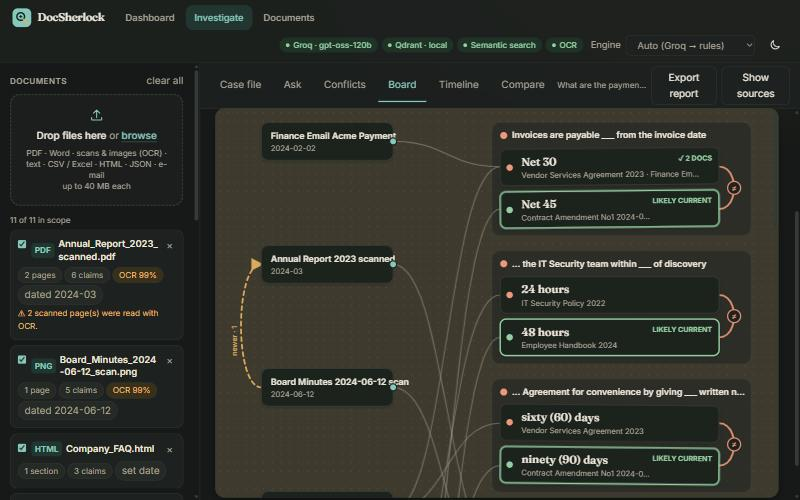
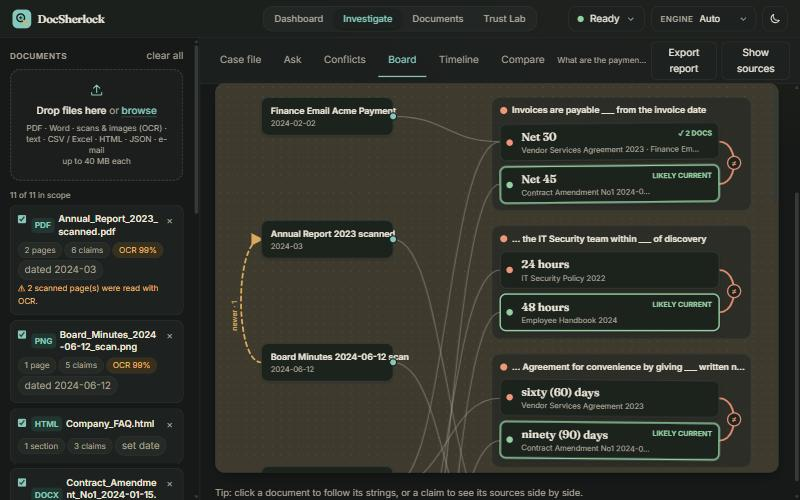
readme done

diff --git a/frontend/src/components/TopBar.tsx b/frontend/src/components/TopBar.tsx
@@ -3,7 +3,7 @@ import { NavLink } from 'react-router-dom'
 import { useWorkspace } from '../context/workspace'
 import type { Mode } from '../lib/types'
 import { Logo } from './Logo'
-import { StatusPills } from './StatusPills'
+import { StatusMenu } from './StatusMenu'
 
 function useTheme() {
   const [dark, setDark] = useState(() => document.documentElement.classList.contains('dark'))
@@ -29,9 +29,13 @@ function useTheme() {
   return [dark, toggle] as const
 }
 
+/* Every control in the header shares one height (h-10), one radius (rounded-xl), one border and one hover style, so the row reads as a set. */
+const CONTROL = 'rounded-xl border border-line bg-surface transition duration-200 hover:border-brand/50'
+
 function ThemeToggle({ dark, onToggle }: { dark: boolean; onToggle: () => void }) {
   return (
-    <button className="btn btn-ghost !min-h-10 !w-10 !px-0" onClick={onToggle} aria-label={dark ? 'Switch to light mode' : 'Switch to dark mode'} aria-pressed={dark} title={dark ? 'Light mode' : 'Dark mode'}>
+    <button className={`${CONTROL} inline-flex h-10 w-10 shrink-0 items-center justify-center text-ink hover:bg-surface-2 active:scale-[.98]`} onClick={onToggle}
+      aria-label={dark ? 'Switch to light mode' : 'Switch to dark mode'} aria-pressed={dark} title={dark ? 'Light mode' : 'Dark mode'}>
       <svg viewBox="0 0 24 24" width="20" height="20" fill="none" stroke="currentColor" strokeWidth="1.9" strokeLinecap="round" strokeLinejoin="round" aria-hidden="true">
         <g className={`origin-center transition duration-500 ${dark ? 'scale-0 -rotate-90 opacity-0' : 'scale-100 rotate-0 opacity-100'}`} style={{ transformBox: 'fill-box' }}>
           <circle cx="12" cy="12" r="4" /><path d="M12 2v2M12 20v2M4.9 4.9l1.4 1.4M17.7 17.7l1.4 1.4M2 12h2M20 12h2M4.9 19.1l1.4-1.4M17.7 6.3l1.4-1.4" />
@@ -42,32 +46,53 @@ function ThemeToggle({ dark, onToggle }: { dark: boolean; onToggle: () => void }
   )
 }
 
-const link = ({ isActive }: { isActive: boolean }) =>
-  `relative whitespace-nowrap rounded-xl px-3.5 py-2 text-sm font-medium transition duration-200 ${isActive ? 'bg-brand-soft text-brand' : 'text-muted hover:bg-surface-2 hover:text-ink'}`
-
-export function TopBar() {
+function EngineSelect({ className = '' }: { className?: string }) {
   const { mode, setMode, health } = useWorkspace()
+  return (
+    <label className={`${CONTROL} relative h-10 items-center text-sm focus-within:border-brand focus-within:ring-2 focus-within:ring-brand/25 ${className}`}>
+      <span className="pl-3.5 text-xs font-semibold uppercase tracking-wider text-muted">Engine</span>
+      <select value={mode} onChange={(e) => setMode(e.target.value as Mode)} aria-label="Answer engine"
+        title={health?.llm.available ? 'Auto: Groq writes the answer, the rule-based engine takes over if it fails. Rules only: never call the LLM. Groq only: no fallback.' : 'No LLM key is configured, so the rule-based engine answers.'}
+        className="h-full min-w-0 flex-1 cursor-pointer appearance-none bg-transparent pl-2.5 pr-9 text-sm font-medium text-ink focus:outline-none">
+        <option value="auto">Auto</option>
+        <option value="rules">Rules only</option>
+        <option value="llm">Groq only</option>
+      </select>
+      <svg viewBox="0 0 20 20" className="pointer-events-none absolute right-3 h-4 w-4 text-muted" fill="none" stroke="currentColor" strokeWidth="1.8" strokeLinecap="round" strokeLinejoin="round" aria-hidden="true"><path d="M5 8l5 5 5-5" /></svg>
+    </label>
+  )
+}
+
+const link = ({ isActive }: { isActive: boolean }) =>
+  `inline-flex h-8 flex-1 items-center justify-center whitespace-nowrap rounded-[.65rem] px-1 text-[0.84rem] font-medium transition duration-200 sm:px-2 sm:text-sm lg:flex-none lg:px-3.5 ${isActive ? 'bg-surface text-brand shadow-[var(--shadow-card)]' : 'text-muted hover:text-ink'}`
+
+/**
+ * Header layout: logo | navigation | controls.
+ *  - from 1024 px: one row of three equal-weight zones, so the navigation sits exactly in the middle of the page
+ *  - below that (tablets and phones): logo and controls on the first row, the navigation full width underneath
+ * The answer-engine choice shows next to the status control from 1280 px and moves inside the status panel below that.
+ */
+export function TopBar() {
   const [dark, toggle] = useTheme()
   return (
-    <header className="sticky top-0 z-30 flex flex-wrap items-center gap-x-4 gap-y-1 border-b border-line bg-surface/85 px-4 py-2 backdrop-blur-md sm:px-5">
-      <NavLink to="/" className="mr-1 rounded-lg" aria-label="DocSherlock home"><Logo /></NavLink>
-      <nav className="scroll-thin order-last -mx-1 flex w-full items-center gap-1 overflow-x-auto px-1 pb-1 sm:order-none sm:mx-0 sm:w-auto sm:overflow-visible sm:px-0 sm:pb-0" aria-label="Main">
-        <NavLink to="/" end className={link}>Dashboard</NavLink>
-        <NavLink to="/investigate" className={link}>Investigate</NavLink>
-        <NavLink to="/documents" className={link}>Documents</NavLink>
-        <NavLink to="/trust" className={link}>Trust Lab</NavLink>
-      </nav>
-      <div className="ml-auto flex items-center gap-2 sm:gap-3">
-        <div className="hidden xl:block"><StatusPills /></div>
-        <label className="hidden items-center gap-2 text-sm text-muted sm:flex">
-          <span className="sr-only sm:not-sr-only">Engine</span>
-          <select value={mode} onChange={(e) => setMode(e.target.value as Mode)} className="field !w-auto !rounded-lg !py-1.5 !pr-8 text-sm" aria-label="Answer engine">
-            <option value="auto">{health?.llm.available ? 'Auto (Groq → rules)' : 'Auto'}</option>
-            <option value="rules">Rules only</option>
-            <option value="llm">Groq only</option>
-          </select>
-        </label>
-        <ThemeToggle dark={dark} onToggle={toggle} />
+    <header className="sticky top-0 z-30 border-b border-line bg-surface/85 backdrop-blur-md">
+      <div className="grid grid-cols-[auto_auto] items-center justify-between gap-x-4 gap-y-2.5 px-4 py-2.5 sm:px-5 lg:grid-cols-[1fr_auto_1fr]">
+        <NavLink to="/" className="justify-self-start rounded-lg" aria-label="DocSherlock home"><Logo /></NavLink>
+
+        <nav className="order-last col-span-2 min-w-0 lg:order-none lg:col-span-1 lg:justify-self-center" aria-label="Main">
+          <div className="scroll-thin flex h-10 max-w-full items-center gap-0.5 overflow-x-auto sm:gap-1 overflow-y-hidden rounded-2xl border border-line bg-surface-2/70 p-1">
+            <NavLink to="/" end className={link}>Dashboard</NavLink>
+            <NavLink to="/investigate" className={link}>Investigate</NavLink>
+            <NavLink to="/documents" className={link}>Documents</NavLink>
+            <NavLink to="/trust" className={link}>Trust Lab</NavLink>
+          </div>
+        </nav>
+
+        <div className="flex items-center gap-2.5 justify-self-end">
+          <StatusMenu extra={<div className="xl:hidden"><div className="eyebrow mb-2">Answer engine</div><EngineSelect className="flex w-full" /></div>} />
+          <EngineSelect className="hidden w-[10.5rem] xl:flex" />
+          <ThemeToggle dark={dark} onToggle={toggle} />
+        </div>
       </div>
     </header>
   )

diff --git a/frontend/src/components/topbar.test.tsx b/frontend/src/components/topbar.test.tsx
@@ -1,0 +1,108 @@
+import { render, screen, within } from '@testing-library/react'
+import userEvent from '@testing-library/user-event'
+import { MemoryRouter } from 'react-router-dom'
+import { beforeEach, describe, expect, it, vi } from 'vitest'
+import { TopBar } from './TopBar'
+
+type H = Record<string, unknown> | null
+const ws = { mode: 'auto', setMode: vi.fn(), health: null as H }
+vi.mock('../context/workspace', () => ({ useWorkspace: () => ws }))
+
+const healthy = (over: Record<string, unknown> = {}) => ({
+  status: 'healthy', version: '2.0.0', database: { ok: true, engine: 'postgresql' }, llm: { available: true, model: 'openai/gpt-oss-120b' },
+  vector_store: { ok: true, mode: 'server', collection: 'c' }, ocr: { available: true, reason: '' },
+  models: { dense: { name: 'jina', enabled: true, ready: true, loading: false, error: null }, sparse: {}, reranker: {}, loading: false }, ...over,
+})
+const renderBar = () => render(<MemoryRouter><TopBar /></MemoryRouter>)
+beforeEach(() => { ws.setMode.mockClear(); ws.health = healthy() })
+
+describe('header layout', () => {
+  it('has the four destinations in one navigation, in order', () => {
+    renderBar()
+    const nav = screen.getByRole('navigation', { name: 'Main' })
+    expect(within(nav).getAllByRole('link').map((a) => a.textContent)).toEqual(['Dashboard', 'Investigate', 'Documents', 'Trust Lab'])
+  })
+
+  it('gives every control one height and one shape, so the row looks uniform', () => {
+    const { container } = renderBar()
+    const header = container.querySelector('header')!
+    const controls = [
+      header.querySelector('nav > div'),                                   // the navigation track
+      screen.getByRole('button', { name: /system status/i }),
+      header.querySelector('label'),                                       // the engine selector
+      screen.getByRole('button', { name: /switch to (dark|light) mode/i }),
+    ] as HTMLElement[]
+    for (const c of controls) { expect(c.className).toMatch(/\bh-10\b/); expect(c.className).toMatch(/rounded-(xl|2xl)/) }
+    for (const c of controls.slice(1)) expect(c.className).toContain('border-line')
+  })
+
+  it('lays out as logo | navigation | controls in a three-zone grid from 1024 px and stacks below', () => {
+    const { container } = renderBar()
+    const grid = container.querySelector('header > div')!
+    expect(grid.className).toContain('lg:grid-cols-[1fr_auto_1fr]')
+    const nav = container.querySelector('nav')!
+    expect(nav.className).toContain('order-last')                           // underneath on phones and tablets
+    expect(nav.className).toContain('min-w-0')                              // so it scrolls inside its track instead of widening the page
+    expect(nav.className).toContain('lg:justify-self-center')               // centred on the page from 1024 px
+  })
+
+  it('marks the page you are on', () => {
+    renderBar()
+    expect(screen.getByRole('link', { name: 'Dashboard' })).toHaveAttribute('aria-current', 'page')
+    expect(screen.getByRole('link', { name: 'Trust Lab' })).not.toHaveAttribute('aria-current')
+  })
+})
+
+describe('status control', () => {
+  it('summarises the system in one word, with a dot', () => {
+    renderBar()
+    expect(screen.getByRole('button', { name: /system status/i })).toHaveTextContent('Ready')
+  })
+
+  it('says Limited when running without an LLM key, Degraded when something is down, and Connecting before the first answer', () => {
+    ws.health = healthy({ llm: { available: false, model: null } })
+    const a = renderBar(); expect(screen.getByRole('button', { name: /system status/i })).toHaveTextContent('Limited'); a.unmount()
+    ws.health = healthy({ database: { ok: false, engine: 'postgresql' } })
+    const b = renderBar(); expect(screen.getByRole('button', { name: /system status/i })).toHaveTextContent('Degraded'); b.unmount()
+    ws.health = null
+    renderBar(); expect(screen.getByRole('button', { name: /system status/i })).toHaveTextContent('Connecting')
+  })
+
+  it('opens a panel listing each part of the system, and closes it again (button, Escape, click outside)', async () => {
+    renderBar()
+    const btn = screen.getByRole('button', { name: /system status/i })
+    expect(btn).toHaveAttribute('aria-expanded', 'false')
+    await userEvent.click(btn)
+    const panel = screen.getByRole('group', { name: 'System status' })
+    expect(btn).toHaveAttribute('aria-expanded', 'true')
+    for (const [label, value] of [['Answer engine', 'Groq · gpt-oss-120b'], ['Database', 'postgresql'], ['Vector store', 'Qdrant · server'], ['Search', 'Semantic search'], ['OCR', 'Available']]) {
+      expect(panel).toHaveTextContent(label); expect(panel).toHaveTextContent(value)
+    }
+    await userEvent.click(btn)
+    expect(screen.queryByRole('group', { name: 'System status' })).toBeNull()
+    await userEvent.click(btn); await userEvent.keyboard('{Escape}')
+    expect(screen.queryByRole('group', { name: 'System status' })).toBeNull()
+    await userEvent.click(btn); await userEvent.click(document.body)
+    expect(screen.queryByRole('group', { name: 'System status' })).toBeNull()
+  })
+
+  it('explains keyword-only mode honestly', async () => {
+    ws.health = healthy({ vector_store: { ok: true, mode: 'disabled', collection: 'c' }, models: { dense: { name: 'x', enabled: false, ready: false, loading: false, error: null }, sparse: {}, reranker: {}, loading: false } })
+    renderBar()
+    await userEvent.click(screen.getByRole('button', { name: /system status/i }))
+    const panel = screen.getByRole('group', { name: 'System status' })
+    expect(panel).toHaveTextContent('Not used'); expect(panel).toHaveTextContent('Keyword search')
+  })
+})
+
+describe('engine selector', () => {
+  it('changes the answer engine and is also reachable inside the status panel on small screens', async () => {
+    renderBar()
+    const selects = screen.getAllByRole('combobox', { name: 'Answer engine' })
+    expect(selects).toHaveLength(1)                                         // the inline one; the panel copy only exists while the panel is open
+    await userEvent.selectOptions(selects[0], 'rules')
+    expect(ws.setMode).toHaveBeenCalledWith('rules')
+    await userEvent.click(screen.getByRole('button', { name: /system status/i }))
+    expect(screen.getAllByRole('combobox', { name: 'Answer engine' })).toHaveLength(2)
+  })
+})

diff --git a/frontend/src/components/StatusMenu.tsx b/frontend/src/components/StatusMenu.tsx
@@ -1,0 +1,70 @@
+import { useEffect, useId, useRef, useState, type ReactNode } from 'react'
+import { useWorkspace } from '../context/workspace'
+
+type Tone = 'ok' | 'warn' | 'bad' | 'none'
+
+const DOT: Record<Tone, string> = { ok: 'bg-ok', warn: 'bg-warn', bad: 'bg-bad', none: 'bg-none' }
+
+function Row({ label, value, tone }: { label: string; value: ReactNode; tone: Tone }) {
+  return (
+    <div className="flex items-center justify-between gap-4 py-2">
+      <dt className="text-sm text-muted">{label}</dt>
+      <dd className="flex min-w-0 items-center gap-2 text-sm font-medium text-ink"><i className={`h-2 w-2 shrink-0 rounded-full ${DOT[tone]}`} aria-hidden="true" /><span className="truncate">{value}</span></dd>
+    </div>
+  )
+}
+
+/** One compact control for the whole system state (answer engine, database, vector store, search, OCR); the details open in a small panel. */
+export function StatusMenu({ extra }: { extra?: ReactNode }) {
+  const { health: h } = useWorkspace()
+  const [open, setOpen] = useState(false)
+  const box = useRef<HTMLDivElement>(null)
+  const id = useId()
+
+  useEffect(() => {
+    if (!open) return
+    const down = (e: MouseEvent) => { if (box.current && !box.current.contains(e.target as Node)) setOpen(false) }
+    const key = (e: KeyboardEvent) => { if (e.key === 'Escape') setOpen(false) }
+    document.addEventListener('mousedown', down)
+    document.addEventListener('keydown', key)
+    return () => { document.removeEventListener('mousedown', down); document.removeEventListener('keydown', key) }
+  }, [open])
+
+  let tone: Tone = 'none'
+  let label = 'Connecting…'
+  let rows: { label: string; value: ReactNode; tone: Tone }[] = []
+  if (h) {
+    const dense = h.models.dense
+    const search = dense.ready ? { v: 'Semantic search', t: 'ok' as Tone } : dense.loading ? { v: 'Loading models…', t: 'warn' as Tone } : dense.enabled ? { v: 'Models pending', t: 'warn' as Tone } : { v: 'Keyword search', t: 'none' as Tone }
+    rows = [
+      { label: 'Answer engine', value: h.llm.available ? `Groq · ${h.llm.model?.split('/').pop()}` : 'Rule-based (no LLM key)', tone: h.llm.available ? 'ok' : 'warn' },
+      { label: 'Database', value: h.database.engine, tone: h.database.ok ? 'ok' : 'bad' },
+      { label: 'Vector store', value: h.vector_store.mode === 'disabled' ? 'Not used' : `Qdrant · ${h.vector_store.mode}`, tone: h.vector_store.mode === 'disabled' ? 'none' : h.vector_store.ok ? 'ok' : 'bad' },
+      { label: 'Search', value: search.v, tone: search.t },
+      { label: 'OCR', value: h.ocr.available ? 'Available' : 'Off', tone: h.ocr.available ? 'ok' : 'none' },
+    ]
+    const bad = h.status !== 'healthy' || rows.some((r) => r.tone === 'bad')
+    const warn = rows.some((r) => r.tone === 'warn')
+    tone = bad ? 'bad' : warn ? 'warn' : 'ok'
+    label = bad ? 'Degraded' : warn ? 'Limited' : 'Ready'
+  }
+
+  return (
+    <div ref={box} className="relative">
+      <button type="button" aria-expanded={open} aria-controls={id} aria-haspopup="true" onClick={() => setOpen((o) => !o)} title="System status"
+        className="inline-flex h-10 items-center gap-2.5 rounded-xl border border-line bg-surface px-3.5 text-sm font-medium text-ink transition duration-200 hover:border-brand/50 hover:bg-surface-2 active:scale-[.98]">
+        <i className={`h-2.5 w-2.5 rounded-full ${DOT[tone]} ${h ? '' : 'animate-pulse'}`} aria-hidden="true" />
+        <span>{label}</span>
+        <span className="sr-only">- system status</span>
+        <svg viewBox="0 0 20 20" className={`h-4 w-4 text-muted transition duration-200 ${open ? 'rotate-180' : ''}`} fill="none" stroke="currentColor" strokeWidth="1.8" strokeLinecap="round" strokeLinejoin="round" aria-hidden="true"><path d="M5 8l5 5 5-5" /></svg>
+      </button>
+      {open && (
+        <div id={id} role="group" aria-label="System status" className="pop absolute right-0 top-full z-40 mt-2 w-80 max-w-[calc(100vw-2rem)] rounded-2xl border border-line bg-surface p-4 shadow-[var(--shadow-lift)]">
+          <div className="eyebrow mb-1">System status</div>
+          {h ? <dl className="divide-y divide-line">{rows.map((r) => <Row key={r.label} {...r} />)}</dl> : <p className="py-2 text-sm text-muted">Connecting to the API…</p>}
+          {extra && <div className="mt-2 border-t border-line pt-3">{extra}</div>}
+        </div>
+      )}
+    </div>
+  )
+}

diff --git a/frontend/src/components/logo.test.tsx b/frontend/src/components/logo.test.tsx
@@ -8,7 +8,7 @@ import { SiteFooter } from './SiteFooter'
 import { TopBar } from './TopBar'
 
 const health = {
-  status: 'healthy', version: '2.0.0', llm: { available: true, model: 'openai/gpt-oss-120b' }, vector_store: { ok: true, mode: 'server', collection: 'c' }, ocr: { available: true, reason: '' },
+  status: 'healthy', version: '2.0.0', database: { ok: true, engine: 'sqlite' }, llm: { available: true, model: 'openai/gpt-oss-120b' }, vector_store: { ok: true, mode: 'server', collection: 'c' }, ocr: { available: true, reason: '' },
   models: { dense: { name: 'm', enabled: true, ready: true, loading: false, error: null }, sparse: {}, reranker: {}, loading: false },
 }
 vi.mock('../context/workspace', () => ({ useWorkspace: () => ({ mode: 'auto', setMode: vi.fn(), health }) }))
@@ -48,6 +48,16 @@ describe('one logo, everywhere', () => {
     expect(style).toContain(`.tile { fill: ${dark.brand}; }`)
     expect(style).toContain(`.ink { stroke: ${dark['brand-ink']}; }`)
     expect(style).toContain(`.lamp { stroke: ${dark.lamp}; }`)
+  })
+
+  it('the README lockup (logo + wordmark in one image, so the heading is aligned in any renderer) reuses the same mark and colours', () => {
+    const lockup = new DOMParser().parseFromString(read('public/logo-lockup.svg'), 'image/svg+xml')
+    expect(shape(lockup.querySelector('g')!)).toEqual(shape(svg.documentElement))
+    expect(lockup.querySelector('rect')?.getAttribute('fill')?.toLowerCase()).toBe(light.brand)
+    expect(lockup.querySelector('text')?.textContent).toBe('DocSherlock')
+    const style = lockup.querySelector('style')!.textContent!.toLowerCase()
+    expect(style).toContain(`.tile { fill: ${dark.brand}; }`)
+    expect(style).toContain('prefers-color-scheme: dark')
   })
 
   it('the React mark takes its colours from the same tokens', () => {

diff --git a/README.md b/README.md
@@ -1,6 +1,6 @@
-<p align="center"><img src="./frontend/public/favicon.svg" alt="DocSherlock logo" width="84" /></p>
-
-# DocSherlock
+<h1 align="left">
+  <img src="./frontend/public/logo-lockup.svg" alt="DocSherlock" height="56" />
+</h1>
 
 > Ask questions across your PDFs, scans, Word files and e-mails and get answers with the exact supporting passage - and a straight "the documents disagree" or "not found" when that's the truth. Built for analysts, reviewers and anyone who has to defend what a pile of documents says.
 
@@ -22,7 +22,7 @@ Every required item, and where to find it:
 | **Source-code repository with a clear README** | [GitHub](https://github.com/sahinurrahman-debug/DocSherlock) · this file | Yes |
 | **Architecture diagram and major technical decisions** | [Architecture and major technical decisions](#architecture-and-major-technical-decisions) · [docs/ARCHITECTURE.md](./docs/ARCHITECTURE.md) | Diagram inline + decision table |
 | **Demonstration of the core workflow required by the PS** | [Core workflow demonstration](#core-workflow-demonstration) · [Problem-statement coverage](#problem-statement-coverage-alg-ai-02) | 3-minute walkthrough with expected results |
-| **Testing evidence and handling of important edge cases** | [Testing evidence and edge cases](#testing-evidence-and-edge-cases) · [Evaluation](#evaluation) | 213 backend + 76 frontend tests, 3 evaluation corpora, an in-app stress test |
+| **Testing evidence and handling of important edge cases** | [Testing evidence and edge cases](#testing-evidence-and-edge-cases) · [Evaluation](#evaluation) | 213 backend + 86 frontend tests, 3 evaluation corpora, an in-app stress test |
 | **Known limitations and future improvements** | [Known limitations](#known-limitations) · [Future improvements](#future-improvements) | Yes |
 | **Disclosure of external APIs, datasets and AI-assisted components** | [Disclosure](#disclosure-external-apis-datasets-and-ai-assisted-components) | Yes |
 | **Conditions of use, privacy notice, license** | Dashboard footer (also `/#terms`, `/#privacy`, `/#license`) · [LICENSE](./LICENSE) · [License](#license) | MIT; plain-language notices that match what the app does |
@@ -38,15 +38,19 @@ Every required item, and where to find it:
 
 Both are real screenshots of the running app, answering *"What are the payment terms?"* over the bundled sample set: the contract says Net 30, the amendment says Net 45, and DocSherlock shows both with their sources instead of picking one.
 
-| Case board | Trust Lab |
+| Dashboard (light) | Case board (dark) |
 |---|---|
-| ![case board](./screenshots/board.jpg) | ![trust lab](./screenshots/trustlab.jpg) |
+| ![dashboard](./screenshots/dashboard.jpg) | ![case board](./screenshots/board.jpg) |
 
-*The board pins documents on the left and the claims they disagree about on the right - red string joins conflicting claims, amber shows which document amends which. The Trust Lab attacks the running system and reports what actually happened.*
+*The dashboard: greeting, drop box with live progress, workspace stats. The board pins documents on the left and the claims they disagree about on the right - red string joins conflicting claims, amber shows which document amends which.*
 
-![dashboard footer with the privacy notice open](./screenshots/footer.jpg)
+| Trust Lab (dark) | Legal footer (dark) |
+|---|---|
+| ![trust lab](./screenshots/trustlab.jpg) | ![dashboard footer with the privacy notice open](./screenshots/footer.jpg) |
 
-*The dashboard footer: copyright and MIT License, with the conditions of use, privacy notice and license text one click away (shown: the privacy notice).*
+*The Trust Lab attacks the running system and reports what actually happened (12 of 12 here). The dashboard footer carries the copyright and MIT License, with the conditions of use, privacy notice and license text one click away (shown: the privacy notice).*
+
+All screenshots are real captures of the running app, taken after the header redesign (logo, centred navigation, one status control, engine selector, theme toggle).
 
 ---
 
@@ -175,7 +179,7 @@ The problem statement does not require a particular technology, so these are cho
 | FastEmbed (bge-small, BM25, MiniLM cross-encoder) / Jina embeddings API | Local or hosted embeddings, reranking | sentence-transformers, any OpenAI-style `/embeddings` endpoint (`EMBEDDING_API_URL`) |
 | RapidOCR, PyMuPDF, python-docx, openpyxl | Reading scans and documents | Tesseract, Unstructured |
 | Groq (`openai/gpt-oss-120b`, fallback `llama-3.3-70b-versatile`) | Answer writing with strict JSON-schema output | any OpenAI-compatible endpoint (`LLM_PROVIDER=openai_compatible`) |
-| pytest, Vitest, Testing Library | 213 backend and 76 frontend tests | - |
+| pytest, Vitest, Testing Library | 213 backend and 86 frontend tests | - |
 | Docker, Render | Packaging and deployment | any container host |
 
 ---
@@ -236,7 +240,7 @@ All optional; the table lists the ones you are most likely to set. A full annota
 
 ```bash
 cd backend  && pip install -r requirements-dev.txt && pytest -q   # 213 passed, 1 skipped (opt-in live-Postgres test)
-cd frontend && npm test && npm run typecheck                      # 76 passed, type-check clean
+cd frontend && npm test && npm run typecheck                      # 86 passed, type-check clean
 python eval/run_eval.py [--holdout|--holdout2] [--quick] [--llm]  # accuracy report -> eval/RESULTS*.md
 ```
 
@@ -254,7 +258,7 @@ No network and no API key are needed for the test suites. The Trust Lab page rep
 | Insight features (`test_casefile`, `test_timeline`, `test_board`, `test_redteam`, `test_evidencepack`, `test_trustlab`) | 49 | case file, time travel, board graph, red-team attacks, PDF pack, stress-test cases |
 | Retrieval and stores (`test_hybrid`, `test_remote_stack`, `test_ngram_index`, `test_postgres`, `test_low_memory`, `test_compare`, `test_smoke`) | 35 | real embeddings + Qdrant, hosted-embedding/remote-Qdrant against fake servers, outage fallback, PostgreSQL DDL, low-memory preset, document comparison |
 
-**Frontend tests (76, 11 files):** answer cards and citations, confidence badges, safe rendering of document text, case file, timeline, board layout and interaction, red-team panel, trust lab, upload progress, theme toggle, the legal footer (its MIT text is checked against the `LICENSE` file), logo consistency (the static SVG must match the React logo and the design tokens), empty and loading states.
+**Frontend tests (86, 12 files):** answer cards and citations, confidence badges, safe rendering of document text, case file, timeline, board layout and interaction, red-team panel, trust lab, upload progress, theme toggle, the header (layout rules, status panel, engine selector), the legal footer (its MIT text is checked against the `LICENSE` file), logo consistency (the static SVG must match the React logo and the design tokens), empty and loading states.
 
 **Important edge cases and how each is handled**
 
@@ -356,7 +360,7 @@ The second hard part was fitting semantic search into Render's free 512 MB: meas
 
 ## License
 
-Released under the [MIT License](./LICENSE) - Copyright (c) 2026 DocSherlock contributors. One logo is used everywhere - app, favicon and home-screen icon, this README and the PDF evidence pack - drawn from a single source (`frontend/public/favicon.svg`). The app's dashboard footer carries the conditions of use, the privacy notice and the license text (also reachable at `/#terms`, `/#privacy` and `/#license`); these are plain-language notices written for this project, not legal advice. PyMuPDF, a dependency, is AGPL / commercial - see the disclosure above.
+Released under the [MIT License](./LICENSE) - Copyright (c) 2026 DocSherlock contributors. One logo is used everywhere - app, favicon and home-screen icon, this README and the PDF evidence pack - drawn from a single source (`frontend/public/favicon.svg`; the heading above is the same mark with the wordmark, `logo-lockup.svg`). The app's dashboard footer carries the conditions of use, the privacy notice and the license text (also reachable at `/#terms`, `/#privacy` and `/#license`); these are plain-language notices written for this project, not legal advice. PyMuPDF, a dependency, is AGPL / commercial - see the disclosure above.
 
 ---
 

diff --git a/docs/DESIGN.md b/docs/DESIGN.md
@@ -38,4 +38,11 @@ and are switched off entirely under `prefers-reduced-motion`.
 One mark, one lockup, everywhere: a lens over a plus sign on a rounded teal tile with an amber handle, beside a serif "DocSherlock" wordmark.
 * In the app it is always `<Logo />` (`components/Logo.tsx`; sizes `md` and `lg`, optional tagline). Nothing else may draw its own mark - a test fails if another source file contains the geometry or imports the bare `LogoMark`.
 * Outside the app (favicon, README, PDF evidence-pack cover, `apple-touch-icon.png`) the same shape comes from one file, `frontend/public/favicon.svg`. Its light colours are plain attributes (so every renderer honours them) and its dark-mode colours sit in a `prefers-color-scheme` rule; a test checks that its geometry equals the React mark and that its colours equal the design tokens.
+* The README heading is `frontend/public/logo-lockup.svg`: the same mark and the wordmark placed together in one image, so the logo and title are aligned and left-aligned in any Markdown renderer (HTML alignment attributes are not reliable across them). It has a dark-mode variant and a test keeps it identical to the mark.
 * The tile and handle follow the theme tokens (`brand`, `brand-ink`, `lamp`), so the mark is teal in light mode and soft sage in dark mode.
+
+## Header
+One row of three equal-weight zones from 1024 px (logo | navigation | controls), so the navigation is centred on the page; below that the logo and controls share the first row and the navigation sits full width underneath, with four equal links.
+* Every control is **40 px tall** with the same radius, border and hover style (the navigation track, the status control, the engine selector, the theme toggle), and everything sits on one centre line.
+* The four status badges became **one status control** ("Ready", "Limited" or "Degraded", with a dot). It opens a small panel with the answer engine, database, vector store, search mode and OCR; on screens narrower than 1280 px the engine selector lives in that panel instead of crowding the bar.
+* The navigation is a segmented track that shrinks below the width of its links (`min-w-0`) so it can scroll inside itself rather than stretching the page. Tests assert the shared height and shape, the grid, and the shrink rule; measurements at 1280, 1024, 768 and 375 px showed a centring offset of 0 and equal side margins.
